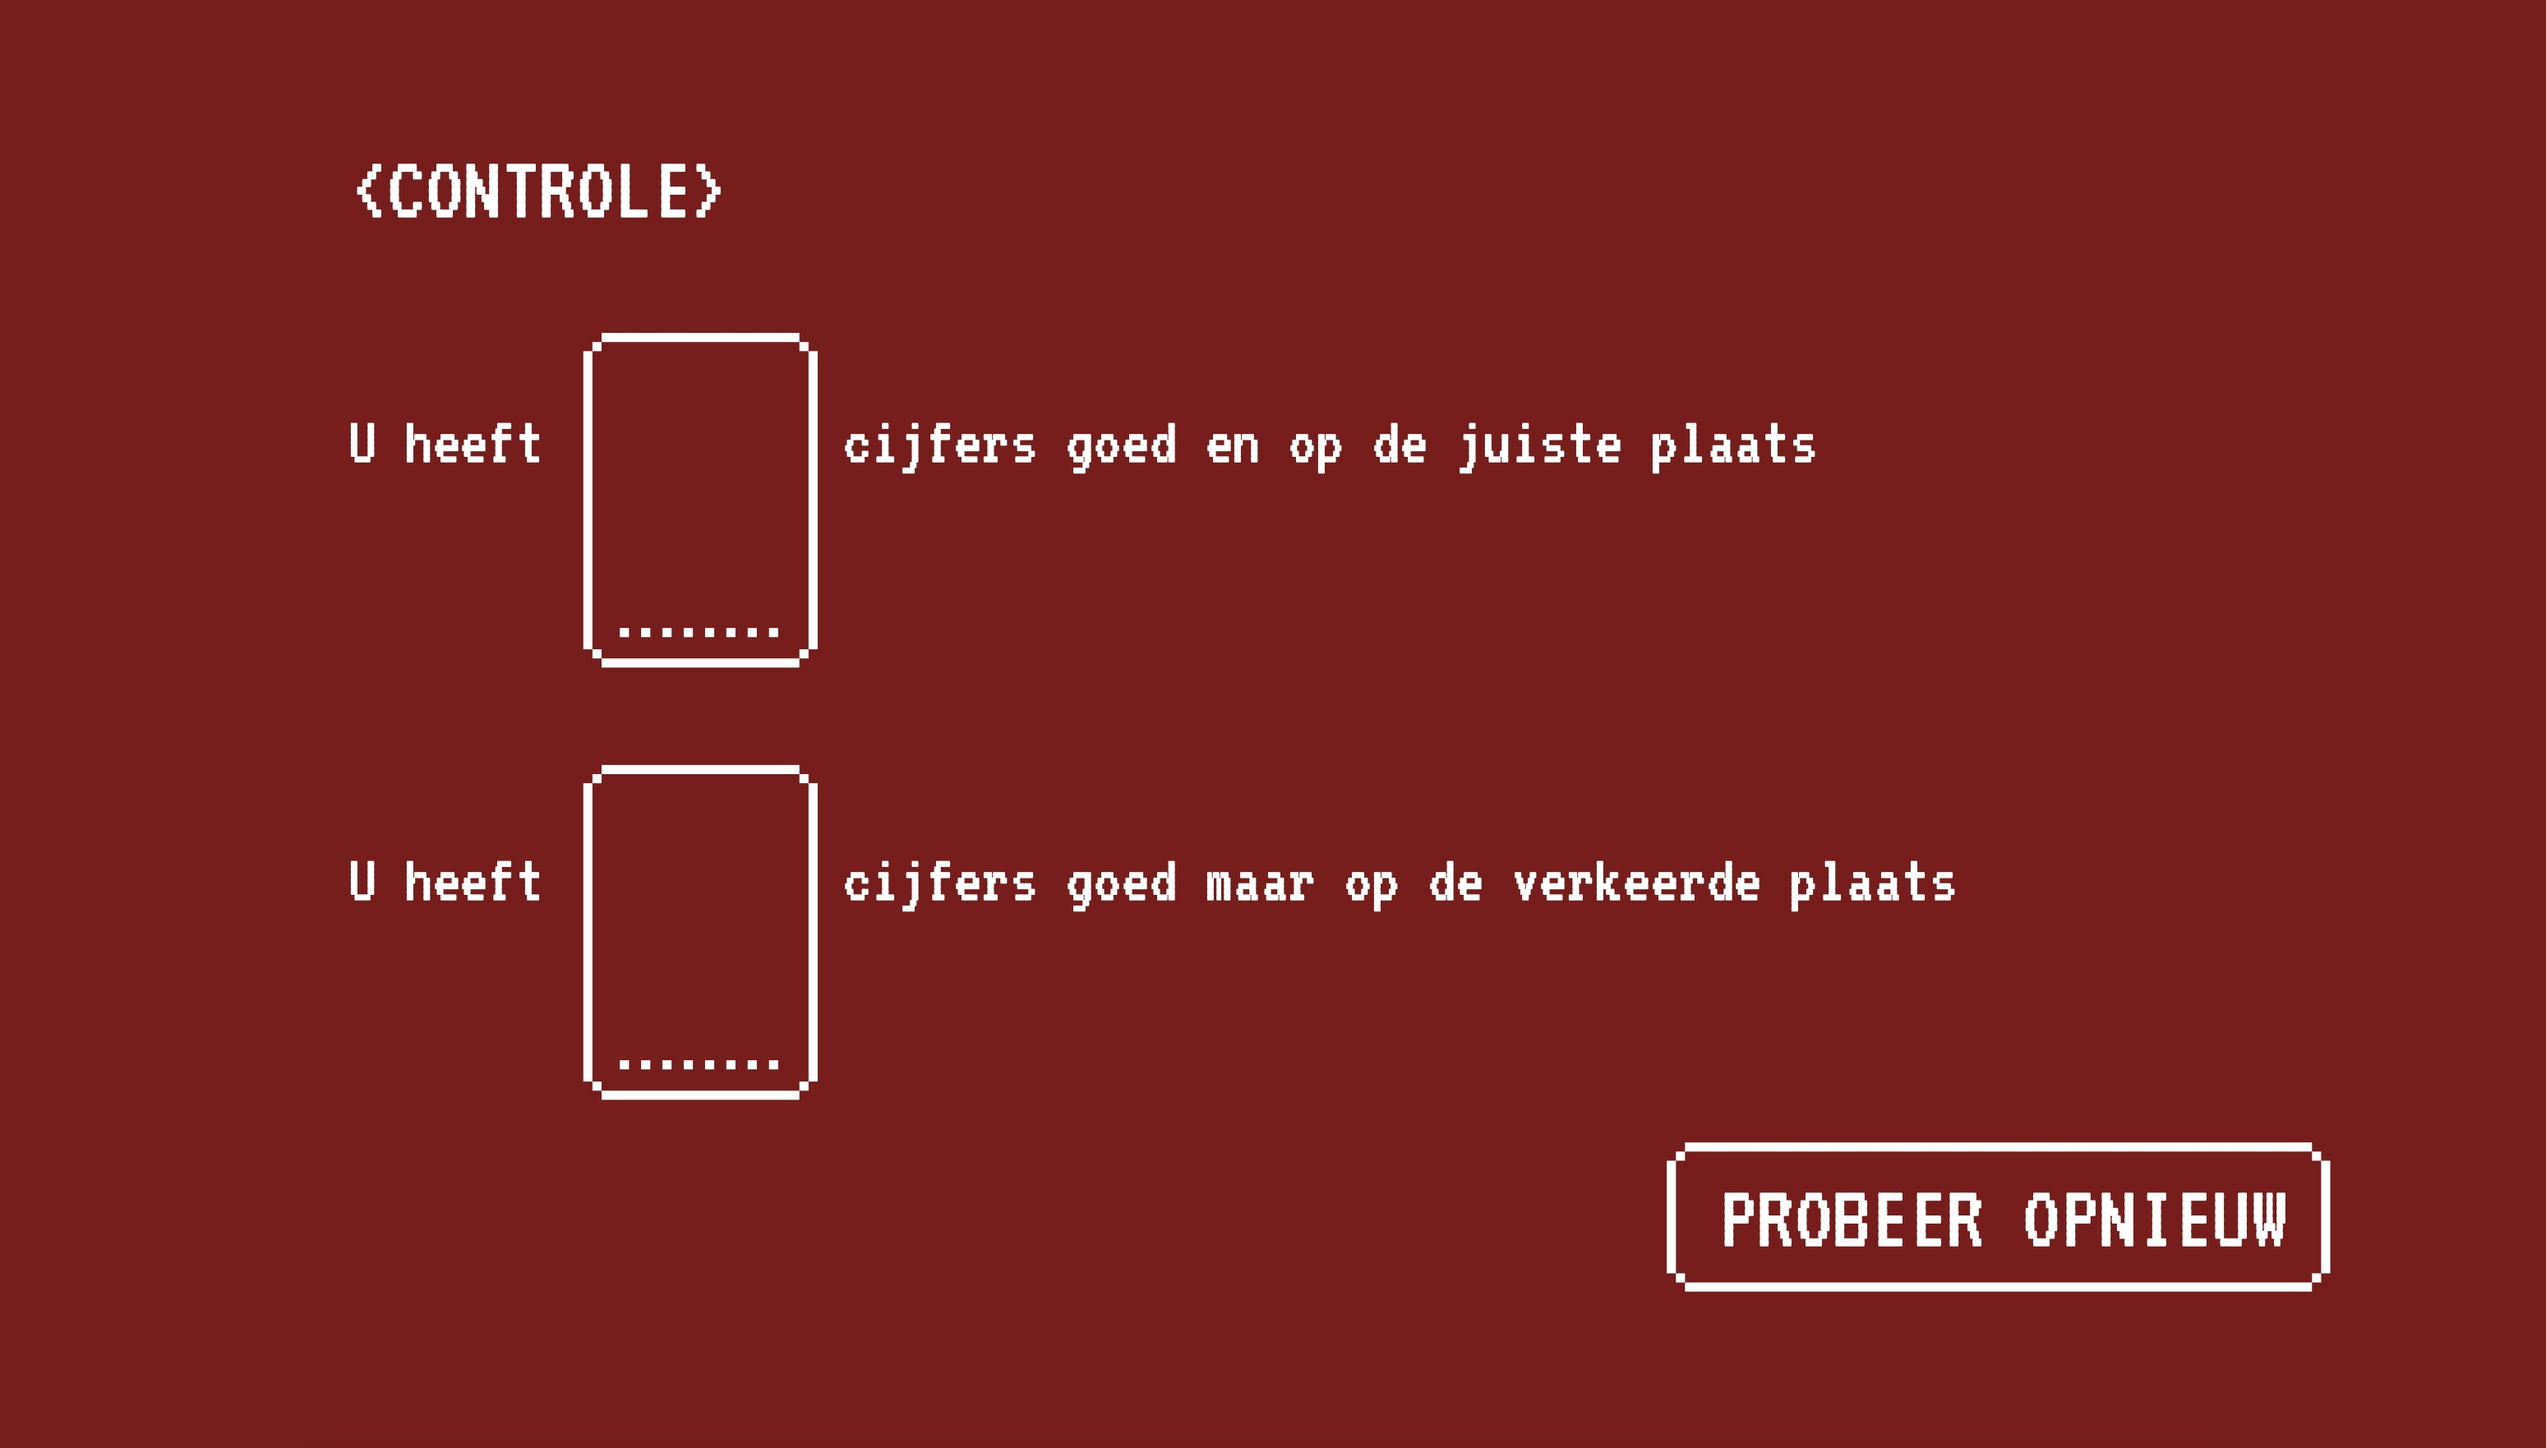
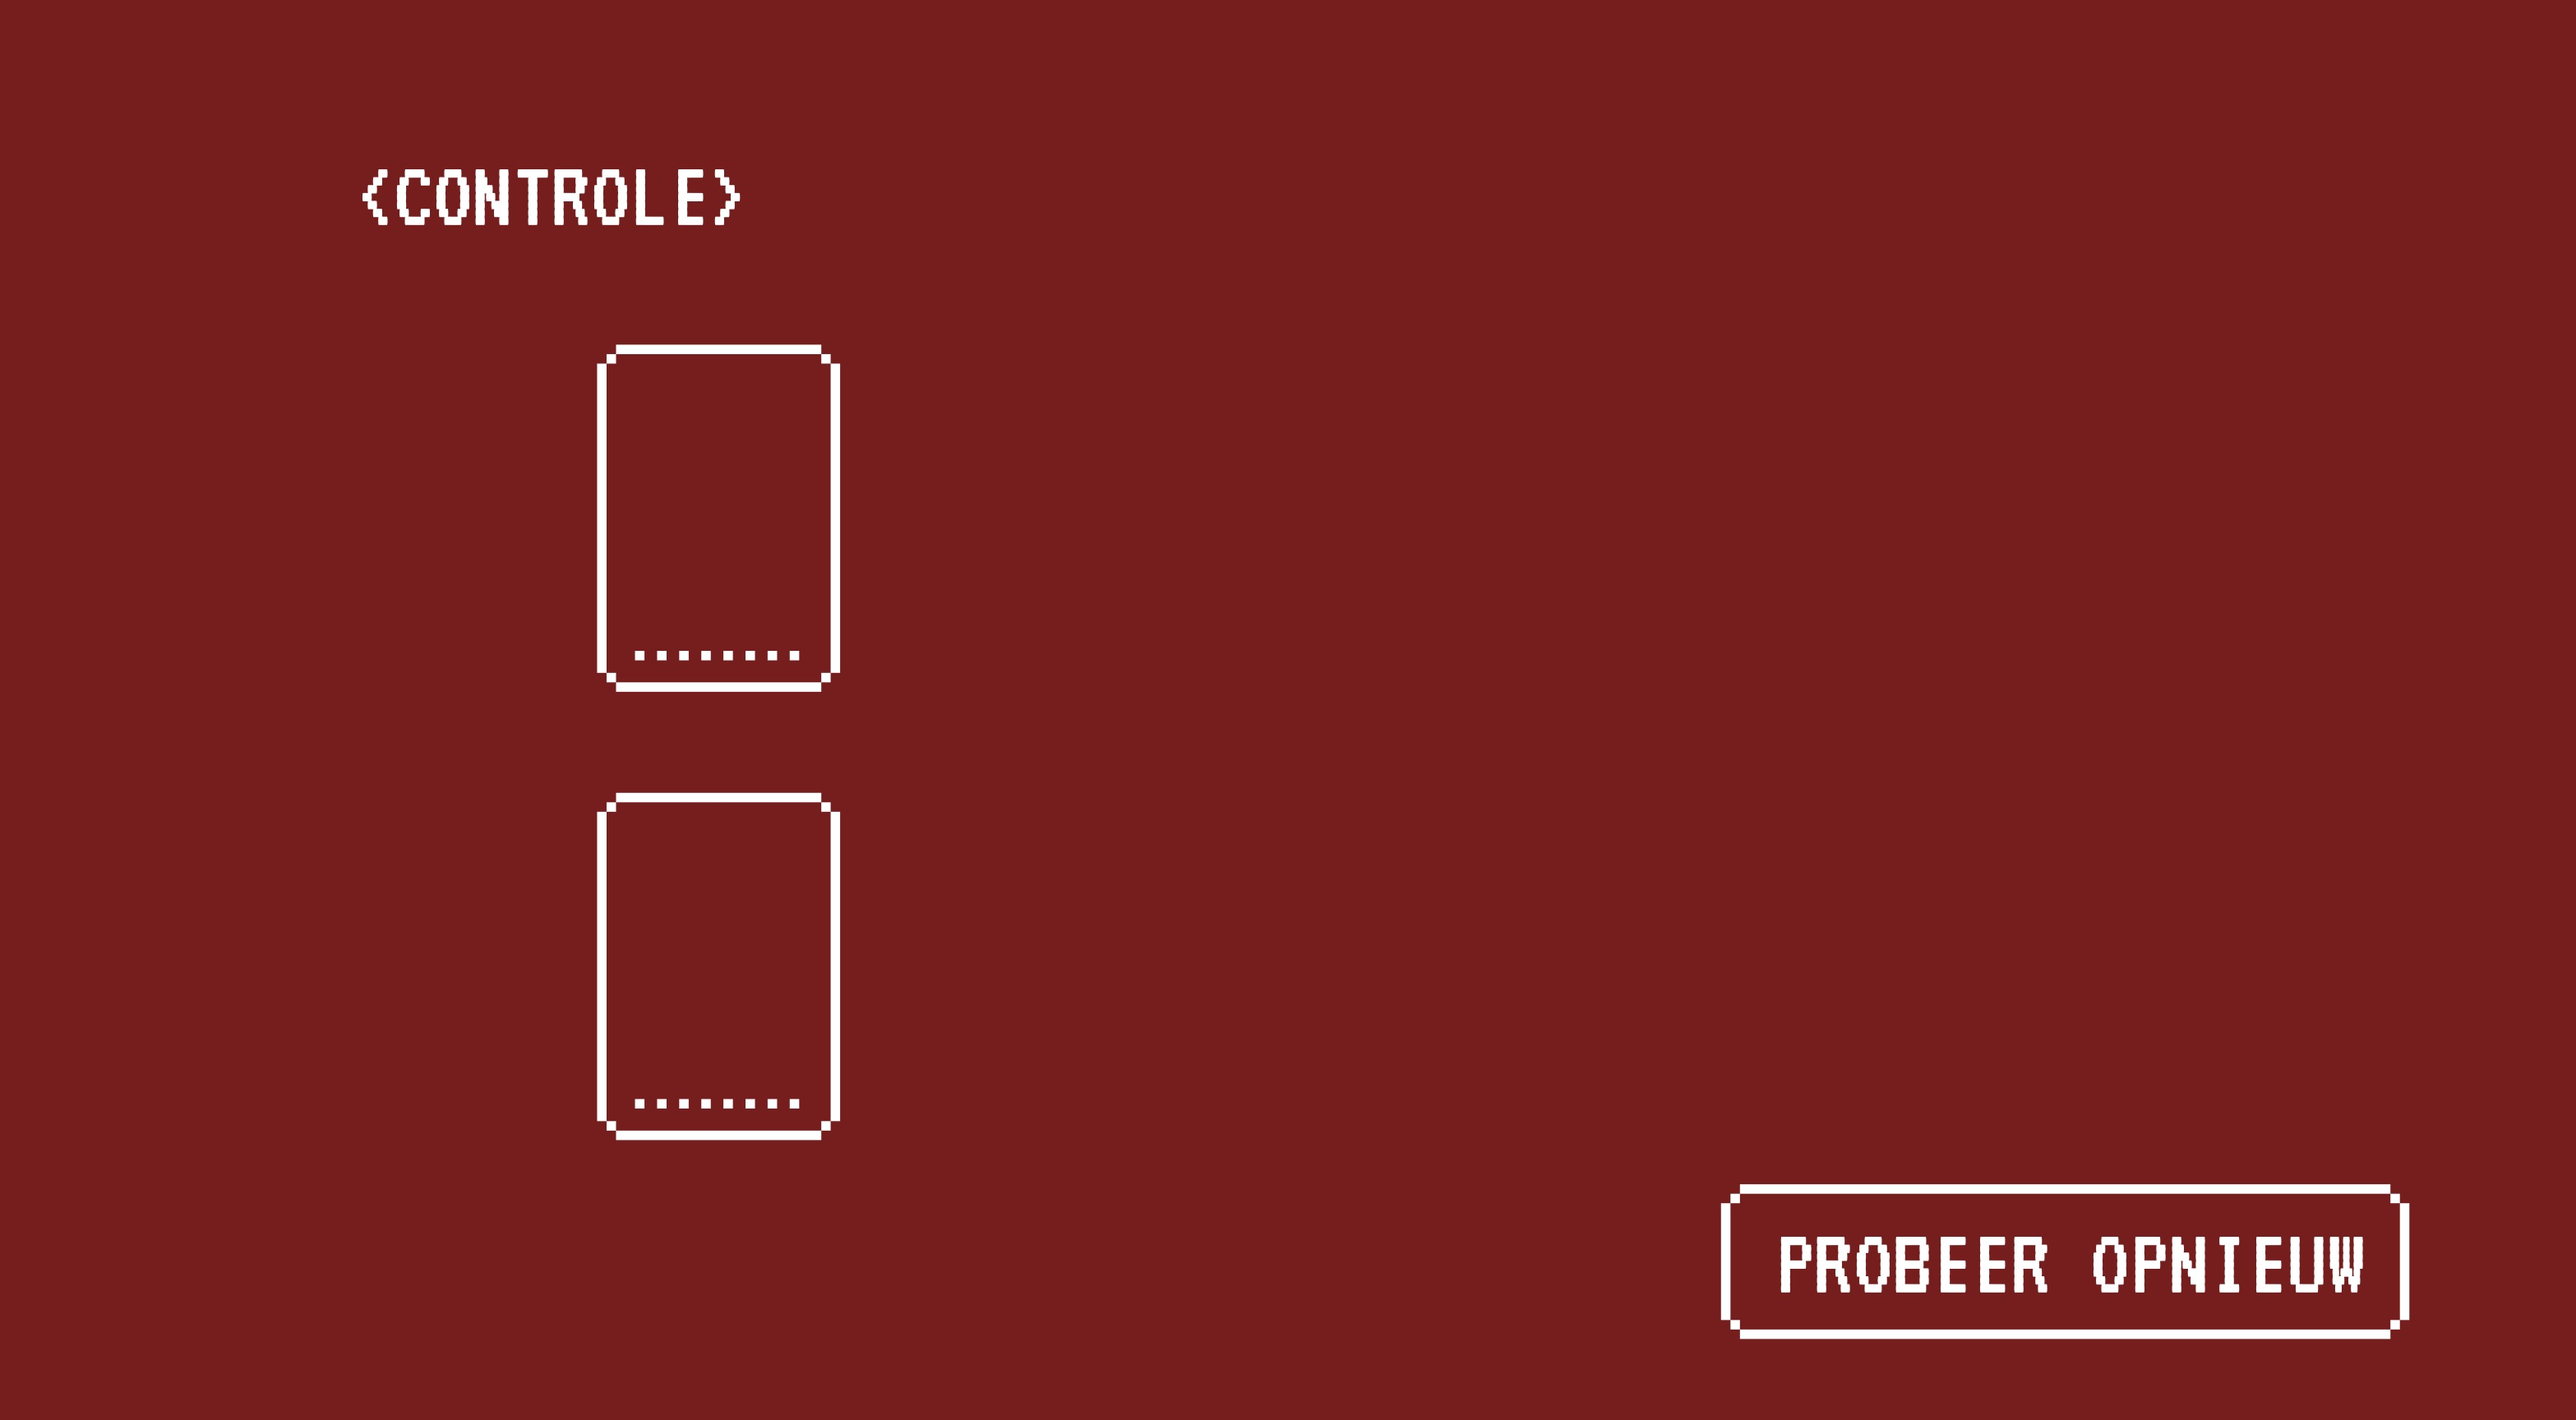
Mastermind game prototype new screens

Changed region(s): [[0.124, 0.2188, 0.7747, 0.8125], [0.6507, 0.7812, 0.9606, 0.9688], [0.124, 0.0938, 0.3099, 0.1562]]

diff --git a/python/templates/index.html b/python/templates/index.html
@@ -7,46 +7,6 @@
     <script src="../static/js/main.js"></script>
     <link rel="stylesheet" href="../static/css/main.css" type="text/css"/>
     <title>MASTERMIND</title>
-    <style>
-        .field:first-child {
-            margin-left: 50px;
-        }
-
-        .field {
-            line-height: 75px;
-            width: 55px;
-            margin-right: 29px;
-            color: #fff;
-            background: transparent;
-            font-size: 77px;
-            font-family: 'VT323-Regular';
-            text-align: center;
-            border: 2px blue solid;
-        }
-
-        #codeContainer {
-            position: absolute;
-            top: 246px;
-            width: 100%;
-            left: 0;
-            text-align: center
-        }
-
-        #codeContainer > div {
-            width: 700px;
-            display: inline-block;
-        }
-
-        #codeContainer > div > button {
-            float: right;
-            padding: 25px 63px;
-            margin-top: 102px;
-            background: transparent;
-            border: 2px blue solid;
-        }
-
-
-    </style>
 </head>
 <body id="index" class="back__blue">
 <center>
@@ -58,12 +18,14 @@
         <input type="text" id="code2" maxlength="1" class="field" onkeyup="goNext(3)">
         <input type="text" id="code3" maxlength="1" class="field">
         <button onclick="goNext(4)">&nbsp;</button>
+    </div>
+</div>
+<div id="remoteContainer">
         <span id="code1" onclick="addCode(1)">1</span>
         <span id="code2" onclick="addCode(2)">2</span>
         <span id="code3" onclick="addCode(3)">3</span>
         <span id="code4" onclick="addCode(4)">4</span>
         <span id="code0" onclick="addCode(0)">0</span>
-    </div>
 </div>
 <script>
     function keyHandler(keyCode) {

diff --git a/python/static/css/main.css b/python/static/css/main.css
@@ -65,27 +65,8 @@
     color: #ffffff;
 }
 
-.table {
-    display: table;
-    width: 100%;
-}
-
-.table .cell {
-    display: table-cell;
-}
-
-.table .cell:first-child {
-    width: 30%;
-}
-
-.container {
-}
-
 .center {
     text-align: center;
-}
-
-.container.center{
 }
 
 #progress {
@@ -117,4 +98,53 @@ body {
     /* The 95% and 2vh can vary, depending on the topscreen offset  */
     background-position-y: 40px !important;
     background-size: auto 90% !important;
+}
+
+.field:first-child {
+    margin-left: 23px;
+}
+
+.field {
+    line-height: 75px;
+    width: 60px;
+    margin-right: 25px;
+    color: #fff;
+    background: transparent;
+    font-size: 77px;
+    font-family: 'VT323-Regular';
+    text-align: center;
+    border: none;
+}
+
+#codeContainer {
+    position: absolute;
+    top: 224px;
+    width: 100%;
+    left: 0;
+    text-align: center
+}
+
+#codeContainer > div {
+    width: 700px;
+    display: inline-block;
+}
+
+#codeContainer > div > button {
+    float: right;
+    padding: 25px 63px;
+    margin-top: 137px;
+    background: transparent;
+}
+
+#remoteContainer {
+    display: inline-block;
+    position: absolute;
+    margin-top: -115px;
+    font-size: 83px;
+    margin-left: 230px;
+}
+#remoteContainer>span {
+    display: inline-block;
+    width: 59px;
+    text-align: center;
 }

diff --git a/python/static/js/main.js b/python/static/js/main.js
@@ -23,7 +23,7 @@ function translatekey(key) {
 }
 
 function v(id, def) {
-    val = document.getElementById('code1').value;
+    val = document.getElementById(id).value;
     if(val == '') {
         val = def;
     }

diff --git a/python/templates/run.html b/python/templates/run.html
@@ -19,7 +19,7 @@
         }
 
         .answer1 {
-            margin-top: -331px;
+            margin-top: -310px;
             text-align: left;
             padding-left: 222px;
         }
